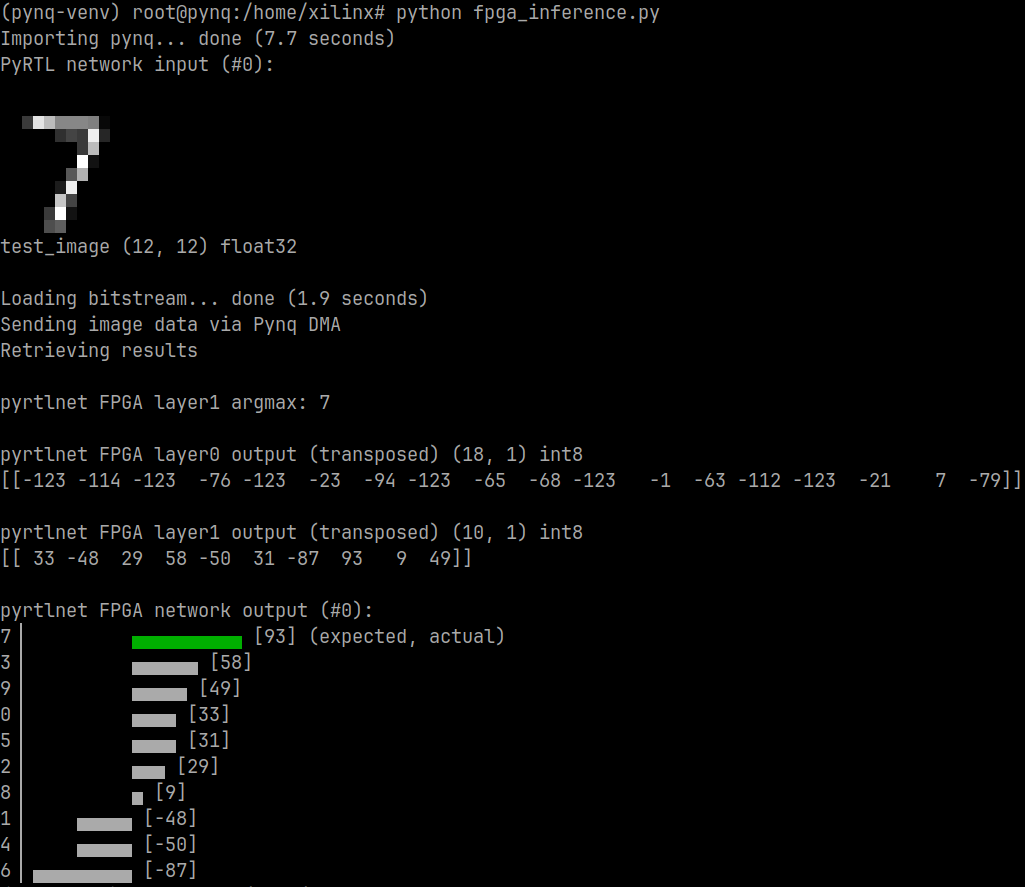
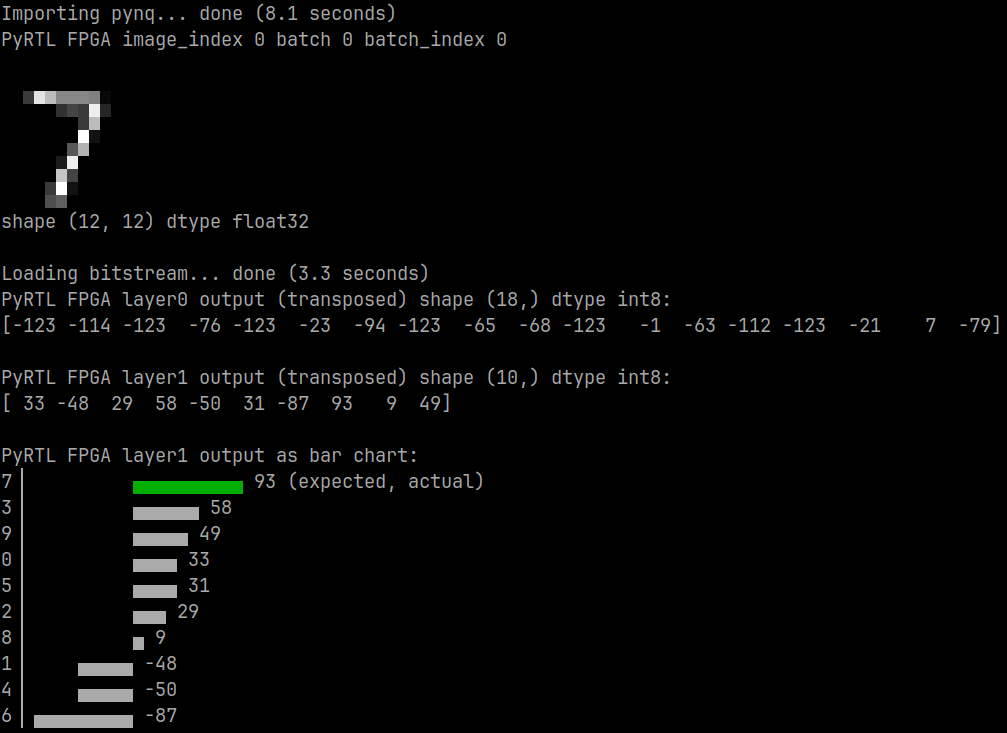
Update screenshots.
This also moves the FPGA inference command line from screenshot to text in
README.md, so it's easier to copy and paste.

diff --git a/fpga/README.md b/fpga/README.md
@@ -265,6 +265,10 @@ driver script on the Pynq Z2, which:
    [AXI DMA](https://discuss.pynq.io/t/tutorial-pynq-dma-part-1-hardware-design/3133)
 1. Retrieves the inference results via AXI
 
+```shell
+(pynq-venv) root@pynq:/home/xilinx# python fpga_inference.py
+```
+
 ![fpga_inference.py screenshot](https://github.com/UCSBarchlab/pyrtlnet/blob/main/docs/images/fpga_inference.png?raw=true)
 
 The tensors output by this script should exactly match the tensors output by
